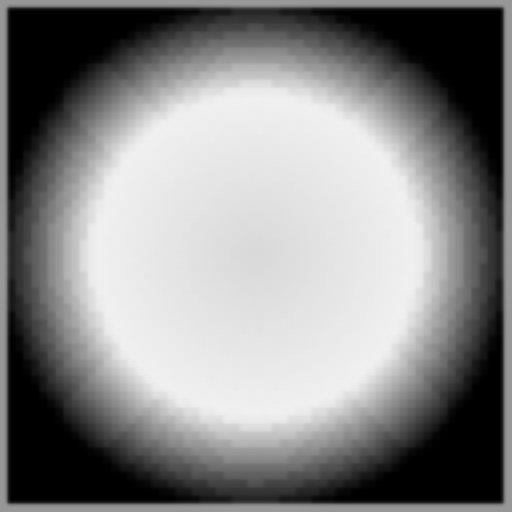
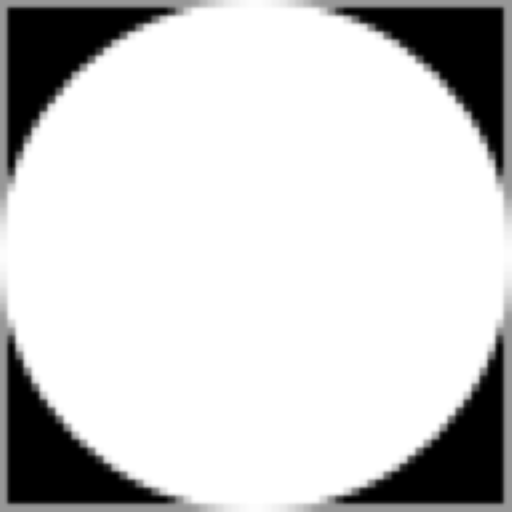
smoke

diff --git a/Trains3D/Trains3D/View/TRSmoke.m b/Trains3D/Trains3D/View/TRSmoke.m
@@ -18,8 +18,8 @@
     EGVec3 _tubePos;
     CGFloat _emitTime;
 }
-static CGFloat _TRSmoke_zSpeed = 0.1;
-static CGFloat _TRSmoke_emitEvery = 0.1;
+static CGFloat _TRSmoke_zSpeed = 0.3;
+static CGFloat _TRSmoke_emitEvery = 0.005;
 static ODClassType* _TRSmoke_type;
 @synthesize train = _train;
 
@@ -51,7 +51,7 @@ static ODClassType* _TRSmoke_type;
 
 - (void)updateWithDelta:(CGFloat)delta {
     _emitTime += delta;
-    if(_emitTime > _TRSmoke_emitEvery) {
+    while(_emitTime > _TRSmoke_emitEvery) {
         _emitTime -= _TRSmoke_emitEvery;
         [self createParticle];
     }
@@ -64,14 +64,16 @@ static ODClassType* _TRSmoke_type;
 }
 
 - (void)createParticle {
-    EGPoint fPos = (([_train isBack]) ? _engine.backConnector.point : _engine.frontConnector.point);
-    EGPoint bPos = (([_train isBack]) ? _engine.frontConnector.point : _engine.backConnector.point);
+    EGPoint fPos = (([_train isBack]) ? _engine.tail.point : _engine.head.point);
+    EGPoint bPos = (([_train isBack]) ? _engine.head.point : _engine.tail.point);
     EGPoint delta = egPointSub(bPos, fPos);
     EGPoint tubeXY = egPointAdd(fPos, egPointSet(delta, ((CGFloat)(_tubePos.x))));
     EGVec3 emitterPos = egVec3Apply(tubeXY, _tubePos.z);
     TRSmokeParticle* p = [TRSmokeParticle smokeParticle];
-    p.position = emitterPos;
-    p.speed = egVec3Apply(egPointSet((([_train isBack]) ? egPointSub(fPos, bPos) : delta), _train.speedFloat), ((float)(_TRSmoke_zSpeed)));
+    p.position = EGVec3Make(emitterPos.x + randomFloatGap(-0.03, 0.03), emitterPos.y + randomFloatGap(-0.03, 0.03), emitterPos.z);
+    randomFloat();
+    EGVec3 s = egVec3Apply(egPointSet((([_train isBack]) ? egPointSub(fPos, bPos) : delta), _train.speedFloat), ((float)(_TRSmoke_zSpeed)));
+    p.speed = EGVec3Make(s.x * randomPercents(0.3), s.y * randomPercents(0.3), s.z * randomPercents(0.3));
     __particles = [CNList applyObject:p tail:__particles];
 }
 
@@ -115,7 +117,7 @@ static ODClassType* _TRSmoke_type;
     EGVec3 _speed;
     CGFloat _time;
 }
-static NSInteger _TRSmokeParticle_lifeTime = 10;
+static NSInteger _TRSmokeParticle_lifeTime = 2;
 static CGFloat _TRSmokeParticle_dragCoefficient = 0.1;
 static ODClassType* _TRSmokeParticle_type;
 @synthesize position = _position;
@@ -228,14 +230,12 @@ ODPType* trSmokeBufferDataType() {
     EGIndexBuffer* _indexBuffer;
     TRSmokeShader* _shader;
     EGFileTexture* _texture;
-    EGSurface* _surface;
 }
 static ODClassType* _TRSmokeView_type;
 @synthesize positionBuffer = _positionBuffer;
 @synthesize indexBuffer = _indexBuffer;
 @synthesize shader = _shader;
 @synthesize texture = _texture;
-@synthesize surface = _surface;
 
 + (id)smokeView {
     return [[TRSmokeView alloc] init];
@@ -244,11 +244,10 @@ static ODClassType* _TRSmokeView_type;
 - (id)init {
     self = [super init];
     if(self) {
-        _positionBuffer = [EGVertexBuffer applyStride:((NSUInteger)(3 * 4))];
+        _positionBuffer = [EGVertexBuffer applyStride:((NSUInteger)(6 * 4))];
         _indexBuffer = [EGIndexBuffer apply];
         _shader = TRSmokeShader.instance;
         _texture = [EG textureForFile:@"Smoke.png"];
-        _surface = [[EGSurface surfaceWithWidth:1024 height:512] init];
     }
     
     return self;
@@ -260,19 +259,13 @@ static ODClassType* _TRSmokeView_type;
 }
 
 - (void)begin {
-    [_surface bind];
-    glClearColor(0.0, 0.0, 0.0, 1.0);
-    egClear();
     glDisable(GL_DEPTH_TEST);
     glDisable(GL_CULL_FACE);
     glEnable(GL_BLEND);
-    glBlendFuncSeparate(GL_SRC_ALPHA, GL_ONE_MINUS_SRC_ALPHA, GL_ZERO, GL_ONE_MINUS_SRC_ALPHA);
+    glBlendFunc(GL_SRC_ALPHA, GL_ONE_MINUS_SRC_ALPHA);
 }
 
 - (void)end {
-    [_surface unbind];
-    glBlendFunc(GL_ONE_MINUS_SRC_ALPHA, GL_SRC_ALPHA);
-    [_surface drawFullScreen];
     glDisable(GL_BLEND);
     glEnable(GL_CULL_FACE);
     glEnable(GL_DEPTH_TEST);
@@ -282,15 +275,16 @@ static ODClassType* _TRSmokeView_type;
     CNList* particles = [smoke particles];
     NSUInteger n = [particles count];
     if(n == 0) return ;
-    CNMutablePArray* positionArr = [CNMutablePArray applyTp:trSmokeBufferDataType() count:((NSUInteger)(6 * n))];
+    CNMutablePArray* positionArr = [CNMutablePArray applyTp:trSmokeBufferDataType() count:((NSUInteger)(4 * n))];
     CNMutablePArray* indexArr = [CNMutablePArray applyTp:oduInt4Type() count:((NSUInteger)(6 * n))];
     __block NSUInteger i = 0;
     [particles forEach:^void(TRSmokeParticle* p) {
         EGVec3 v = p.position;
-        [positionArr writeItem:voidRef(TRSmokeBufferDataMake(v.x, v.y, v.z, 0.0, 0.0))];
-        [positionArr writeItem:voidRef(TRSmokeBufferDataMake(v.x, v.y, v.z, 1.0, 0.0))];
-        [positionArr writeItem:voidRef(TRSmokeBufferDataMake(v.x, v.y, v.z, 1.0, 1.0))];
-        [positionArr writeItem:voidRef(TRSmokeBufferDataMake(v.x, v.y, v.z, 0.0, 1.0))];
+        CGFloat t = p.time;
+        [positionArr writeItem:voidRef(TRSmokeBufferDataMake(v.x, v.y, v.z, 0.0, 0.0, ((float)(t))))];
+        [positionArr writeItem:voidRef(TRSmokeBufferDataMake(v.x, v.y, v.z, 1.0, 0.0, ((float)(t))))];
+        [positionArr writeItem:voidRef(TRSmokeBufferDataMake(v.x, v.y, v.z, 1.0, 1.0, ((float)(t))))];
+        [positionArr writeItem:voidRef(TRSmokeBufferDataMake(v.x, v.y, v.z, 0.0, 1.0, ((float)(t))))];
         [indexArr writeUInt4:((unsigned int)(i))];
         [indexArr writeUInt4:((unsigned int)(i + 1))];
         [indexArr writeUInt4:((unsigned int)(i + 2))];
@@ -341,34 +335,46 @@ static ODClassType* _TRSmokeView_type;
     EGShaderProgram* _program;
     EGShaderAttribute* _positionSlot;
     EGShaderAttribute* _uvSlot;
+    EGShaderAttribute* _lifeSlot;
     EGMatrix* _m;
     EGShaderUniform* _wcpUniform;
     EGShaderUniform* _mUniform;
 }
 static NSString* _TRSmokeShader_vertex = @"attribute vec3 position;\n"
     "attribute vec2 vertexUV;\n"
+    "attribute float vertexLife;\n"
     "uniform mat4 m;\n"
     "uniform mat4 wcp;\n"
     "\n"
     "varying vec2 UV;\n"
+    "varying float life;\n"
     "\n"
     "void main(void) {\n"
-    "   vec4 model = m * vec4(0.2*vertexUV.x - 0.1, 0.2*vertexUV.y - 0.1, 0, 1);\n"
+    "   float size = 0.03;\n"
+    "   vec4 model = m * vec4(2.0*size*vertexUV.x - size, 2.0*size*vertexUV.y - size, 0, 1);\n"
     "   gl_Position = wcp * (vec4(position, 0) + model);\n"
     "   UV = vertexUV;\n"
+    "   life = vertexLife;\n"
     "}";
 static NSString* _TRSmokeShader_fragment = @"varying vec2 UV;\n"
+    "varying float life;\n"
     "\n"
     "uniform sampler2D texture;\n"
     "\n"
     "void main(void) {\n"
     "   gl_FragColor = texture2D(texture, UV);\n"
+    "   if(gl_FragColor.x > 0.7) {\n"
+    "       gl_FragColor.w = min(0.7, 1.4 - 0.7*life);\n"
+    "   } else {\n"
+    "       gl_FragColor.w = 0.0;\n"
+    "   }\n"
     "}";
 static TRSmokeShader* _TRSmokeShader_instance;
 static ODClassType* _TRSmokeShader_type;
 @synthesize program = _program;
 @synthesize positionSlot = _positionSlot;
 @synthesize uvSlot = _uvSlot;
+@synthesize lifeSlot = _lifeSlot;
 @synthesize m = _m;
 @synthesize wcpUniform = _wcpUniform;
 @synthesize mUniform = _mUniform;
@@ -383,6 +389,7 @@ static ODClassType* _TRSmokeShader_type;
         _program = [EGShaderProgram applyVertex:_TRSmokeShader_vertex fragment:_TRSmokeShader_fragment];
         _positionSlot = [_program attributeForName:@"position"];
         _uvSlot = [_program attributeForName:@"vertexUV"];
+        _lifeSlot = [_program attributeForName:@"vertexLife"];
         _m = [[[EGMatrix identity] rotateAngle:60.0 x:1.0 y:0.0 z:0.0] rotateAngle:45.0 x:0.0 y:1.0 z:0.0];
         _wcpUniform = [_program uniformForName:@"wcp"];
         _mUniform = [_program uniformForName:@"m"];
@@ -401,8 +408,9 @@ static ODClassType* _TRSmokeShader_type;
     [_program applyDraw:^void() {
         [texture applyDraw:^void() {
             [positionBuffer applyDraw:^void() {
-                [_positionSlot setFromBufferWithStride:((NSUInteger)(5 * 4)) valuesCount:3 valuesType:GL_FLOAT shift:0];
-                [_uvSlot setFromBufferWithStride:((NSUInteger)(5 * 4)) valuesCount:2 valuesType:GL_FLOAT shift:((NSUInteger)(3 * 4))];
+                [_positionSlot setFromBufferWithStride:((NSUInteger)(6 * 4)) valuesCount:3 valuesType:GL_FLOAT shift:0];
+                [_uvSlot setFromBufferWithStride:((NSUInteger)(6 * 4)) valuesCount:2 valuesType:GL_FLOAT shift:((NSUInteger)(3 * 4))];
+                [_lifeSlot setFromBufferWithStride:((NSUInteger)(6 * 4)) valuesCount:1 valuesType:GL_FLOAT shift:((NSUInteger)(5 * 4))];
                 [_wcpUniform setMatrix:[[EG context] wcp]];
                 [_mUniform setMatrix:_m];
                 ((void(^)())(draw))();

diff --git a/Trains3D/Trains3D/View/TRSmoke.h b/Trains3D/Trains3D/View/TRSmoke.h
@@ -74,18 +74,20 @@ struct TRSmokeBufferData {
     float z;
     float uvx;
     float uvy;
+    float time;
 };
-static inline TRSmokeBufferData TRSmokeBufferDataMake(float x, float y, float z, float uvx, float uvy) {
+static inline TRSmokeBufferData TRSmokeBufferDataMake(float x, float y, float z, float uvx, float uvy, float time) {
     TRSmokeBufferData ret;
     ret.x = x;
     ret.y = y;
     ret.z = z;
     ret.uvx = uvx;
     ret.uvy = uvy;
+    ret.time = time;
     return ret;
 }
 static inline BOOL TRSmokeBufferDataEq(TRSmokeBufferData s1, TRSmokeBufferData s2) {
-    return eqf4(s1.x, s2.x) && eqf4(s1.y, s2.y) && eqf4(s1.z, s2.z) && eqf4(s1.uvx, s2.uvx) && eqf4(s1.uvy, s2.uvy);
+    return eqf4(s1.x, s2.x) && eqf4(s1.y, s2.y) && eqf4(s1.z, s2.z) && eqf4(s1.uvx, s2.uvx) && eqf4(s1.uvy, s2.uvy) && eqf4(s1.time, s2.time);
 }
 static inline NSUInteger TRSmokeBufferDataHash(TRSmokeBufferData self) {
     NSUInteger hash = 0;
@@ -94,6 +96,7 @@ static inline NSUInteger TRSmokeBufferDataHash(TRSmokeBufferData self) {
     hash = hash * 31 + float4Hash(self.z);
     hash = hash * 31 + float4Hash(self.uvx);
     hash = hash * 31 + float4Hash(self.uvy);
+    hash = hash * 31 + float4Hash(self.time);
     return hash;
 }
 static inline NSString* TRSmokeBufferDataDescription(TRSmokeBufferData self) {
@@ -103,6 +106,7 @@ static inline NSString* TRSmokeBufferDataDescription(TRSmokeBufferData self) {
     [description appendFormat:@", z=%f", self.z];
     [description appendFormat:@", uvx=%f", self.uvx];
     [description appendFormat:@", uvy=%f", self.uvy];
+    [description appendFormat:@", time=%f", self.time];
     [description appendString:@">"];
     return description;
 }
@@ -121,7 +125,6 @@ ODPType* trSmokeBufferDataType();
 @property (nonatomic, readonly) EGIndexBuffer* indexBuffer;
 @property (nonatomic, readonly) TRSmokeShader* shader;
 @property (nonatomic, readonly) EGFileTexture* texture;
-@property (nonatomic, readonly) EGSurface* surface;
 
 + (id)smokeView;
 - (id)init;
@@ -137,6 +140,7 @@ ODPType* trSmokeBufferDataType();
 @property (nonatomic, readonly) EGShaderProgram* program;
 @property (nonatomic, readonly) EGShaderAttribute* positionSlot;
 @property (nonatomic, readonly) EGShaderAttribute* uvSlot;
+@property (nonatomic, readonly) EGShaderAttribute* lifeSlot;
 @property (nonatomic, readonly) EGMatrix* m;
 @property (nonatomic, readonly) EGShaderUniform* wcpUniform;
 @property (nonatomic, readonly) EGShaderUniform* mUniform;

diff --git a/Trains3D/Trains3D/Controller/TRTrain.m b/Trains3D/Trains3D/Controller/TRTrain.m
@@ -341,7 +341,7 @@ static NSArray* _TRCarType_values;
 + (void)initialize {
     [super initialize];
     _TRCarType_car = [TRCarType carTypeWithOrdinal:0 name:@"car" length:0.44 width:0.18 frontConnectorLength:0.13 backConnectorLength:0.13 engineType:[CNOption none]];
-    _TRCarType_engine = [TRCarType carTypeWithOrdinal:1 name:@"engine" length:0.43 width:0.18 frontConnectorLength:0.12 backConnectorLength:0.2 engineType:[CNOption opt:[TREngineType engineTypeWithTubePos:EGVec3Make(((float)(0.15)), 0.0, ((float)(0.5)))]]];
+    _TRCarType_engine = [TRCarType carTypeWithOrdinal:1 name:@"engine" length:0.43 width:0.18 frontConnectorLength:0.12 backConnectorLength:0.2 engineType:[CNOption opt:[TREngineType engineTypeWithTubePos:EGVec3Make(((float)(-0.07)), 0.0, ((float)(0.5)))]]];
     _TRCarType_values = (@[_TRCarType_car, _TRCarType_engine]);
 }
 

diff --git a/Trains3D/Chain/Core/cnTypes.h b/Trains3D/Chain/Core/cnTypes.h
@@ -103,6 +103,19 @@ static inline NSUInteger randomWith(NSUInteger max) {
     return arc4random_uniform((u_int32_t)(max + 1));
 }
 
+static inline CGFloat randomFloat() {
+    return (CGFloat)drand48();
+}
+
+static inline CGFloat randomPercents(CGFloat o) {
+    return 1 + o - 2*o*(CGFloat)drand48();
+}
+
+static inline CGFloat randomFloatGap(CGFloat s, CGFloat e) {
+    return (CGFloat)drand48() * (e - s) + s;
+}
+
+
 static inline NSUInteger VoidRefHash(void * v) {
     return (NSUInteger) v;
 }
